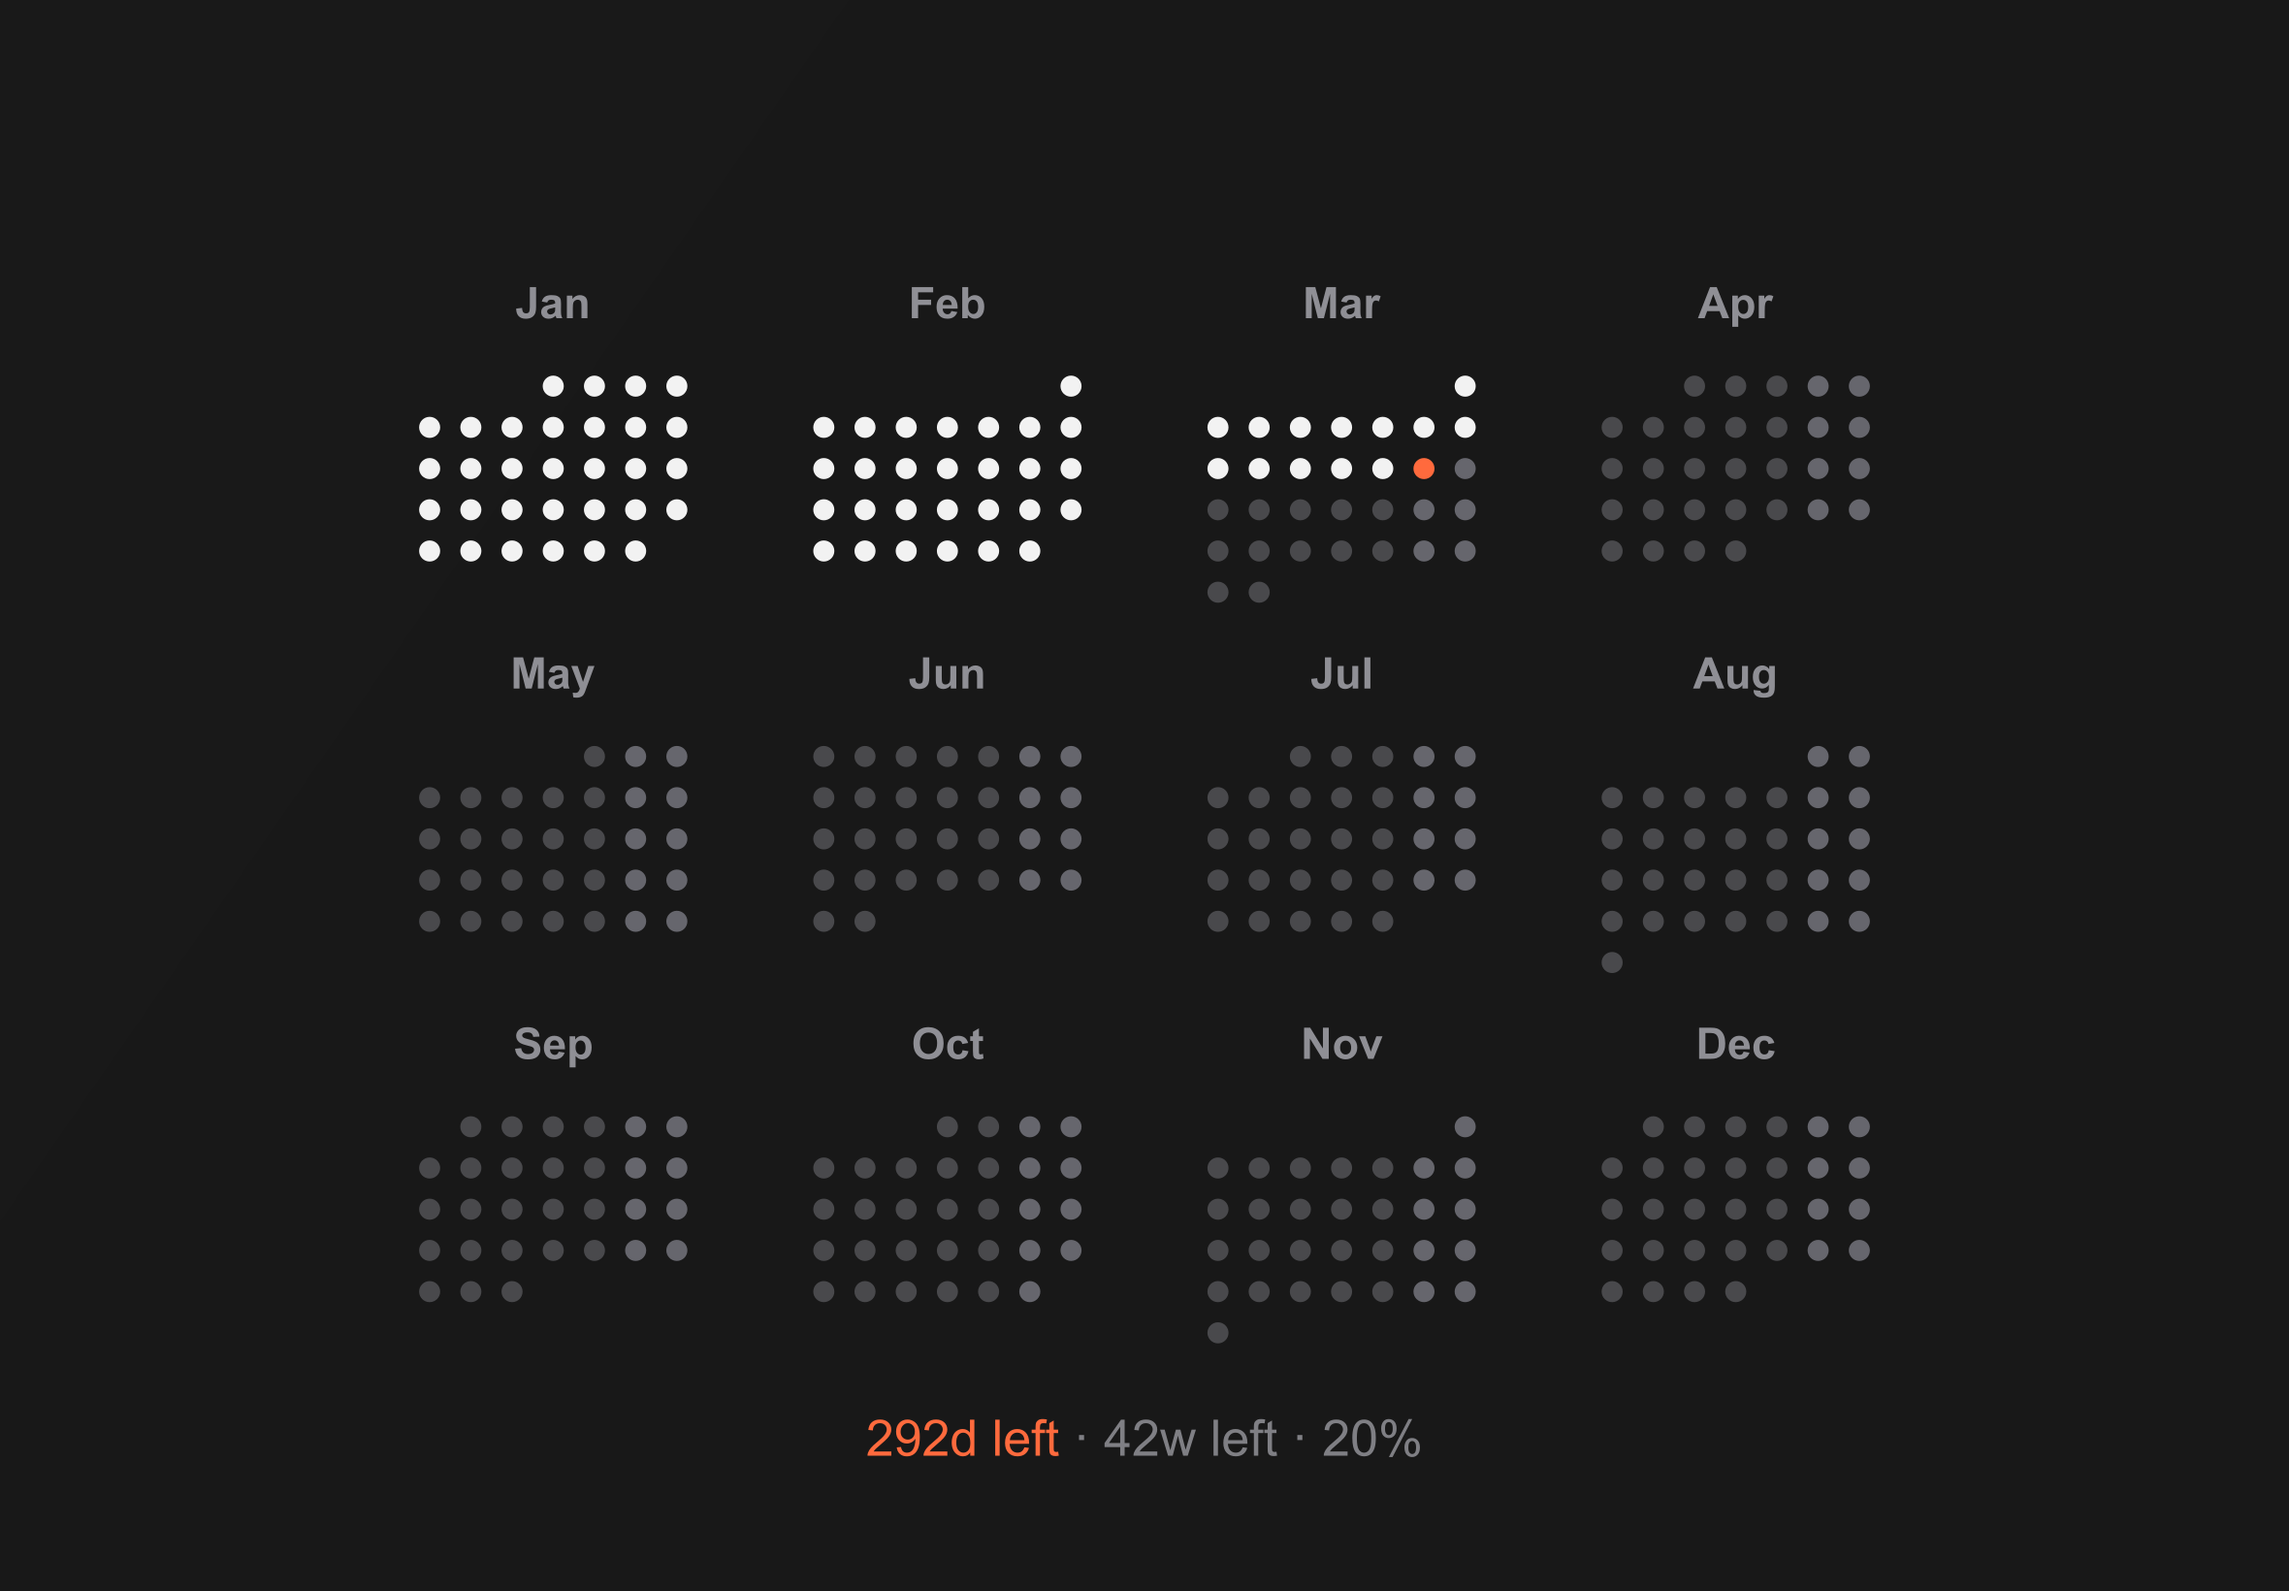
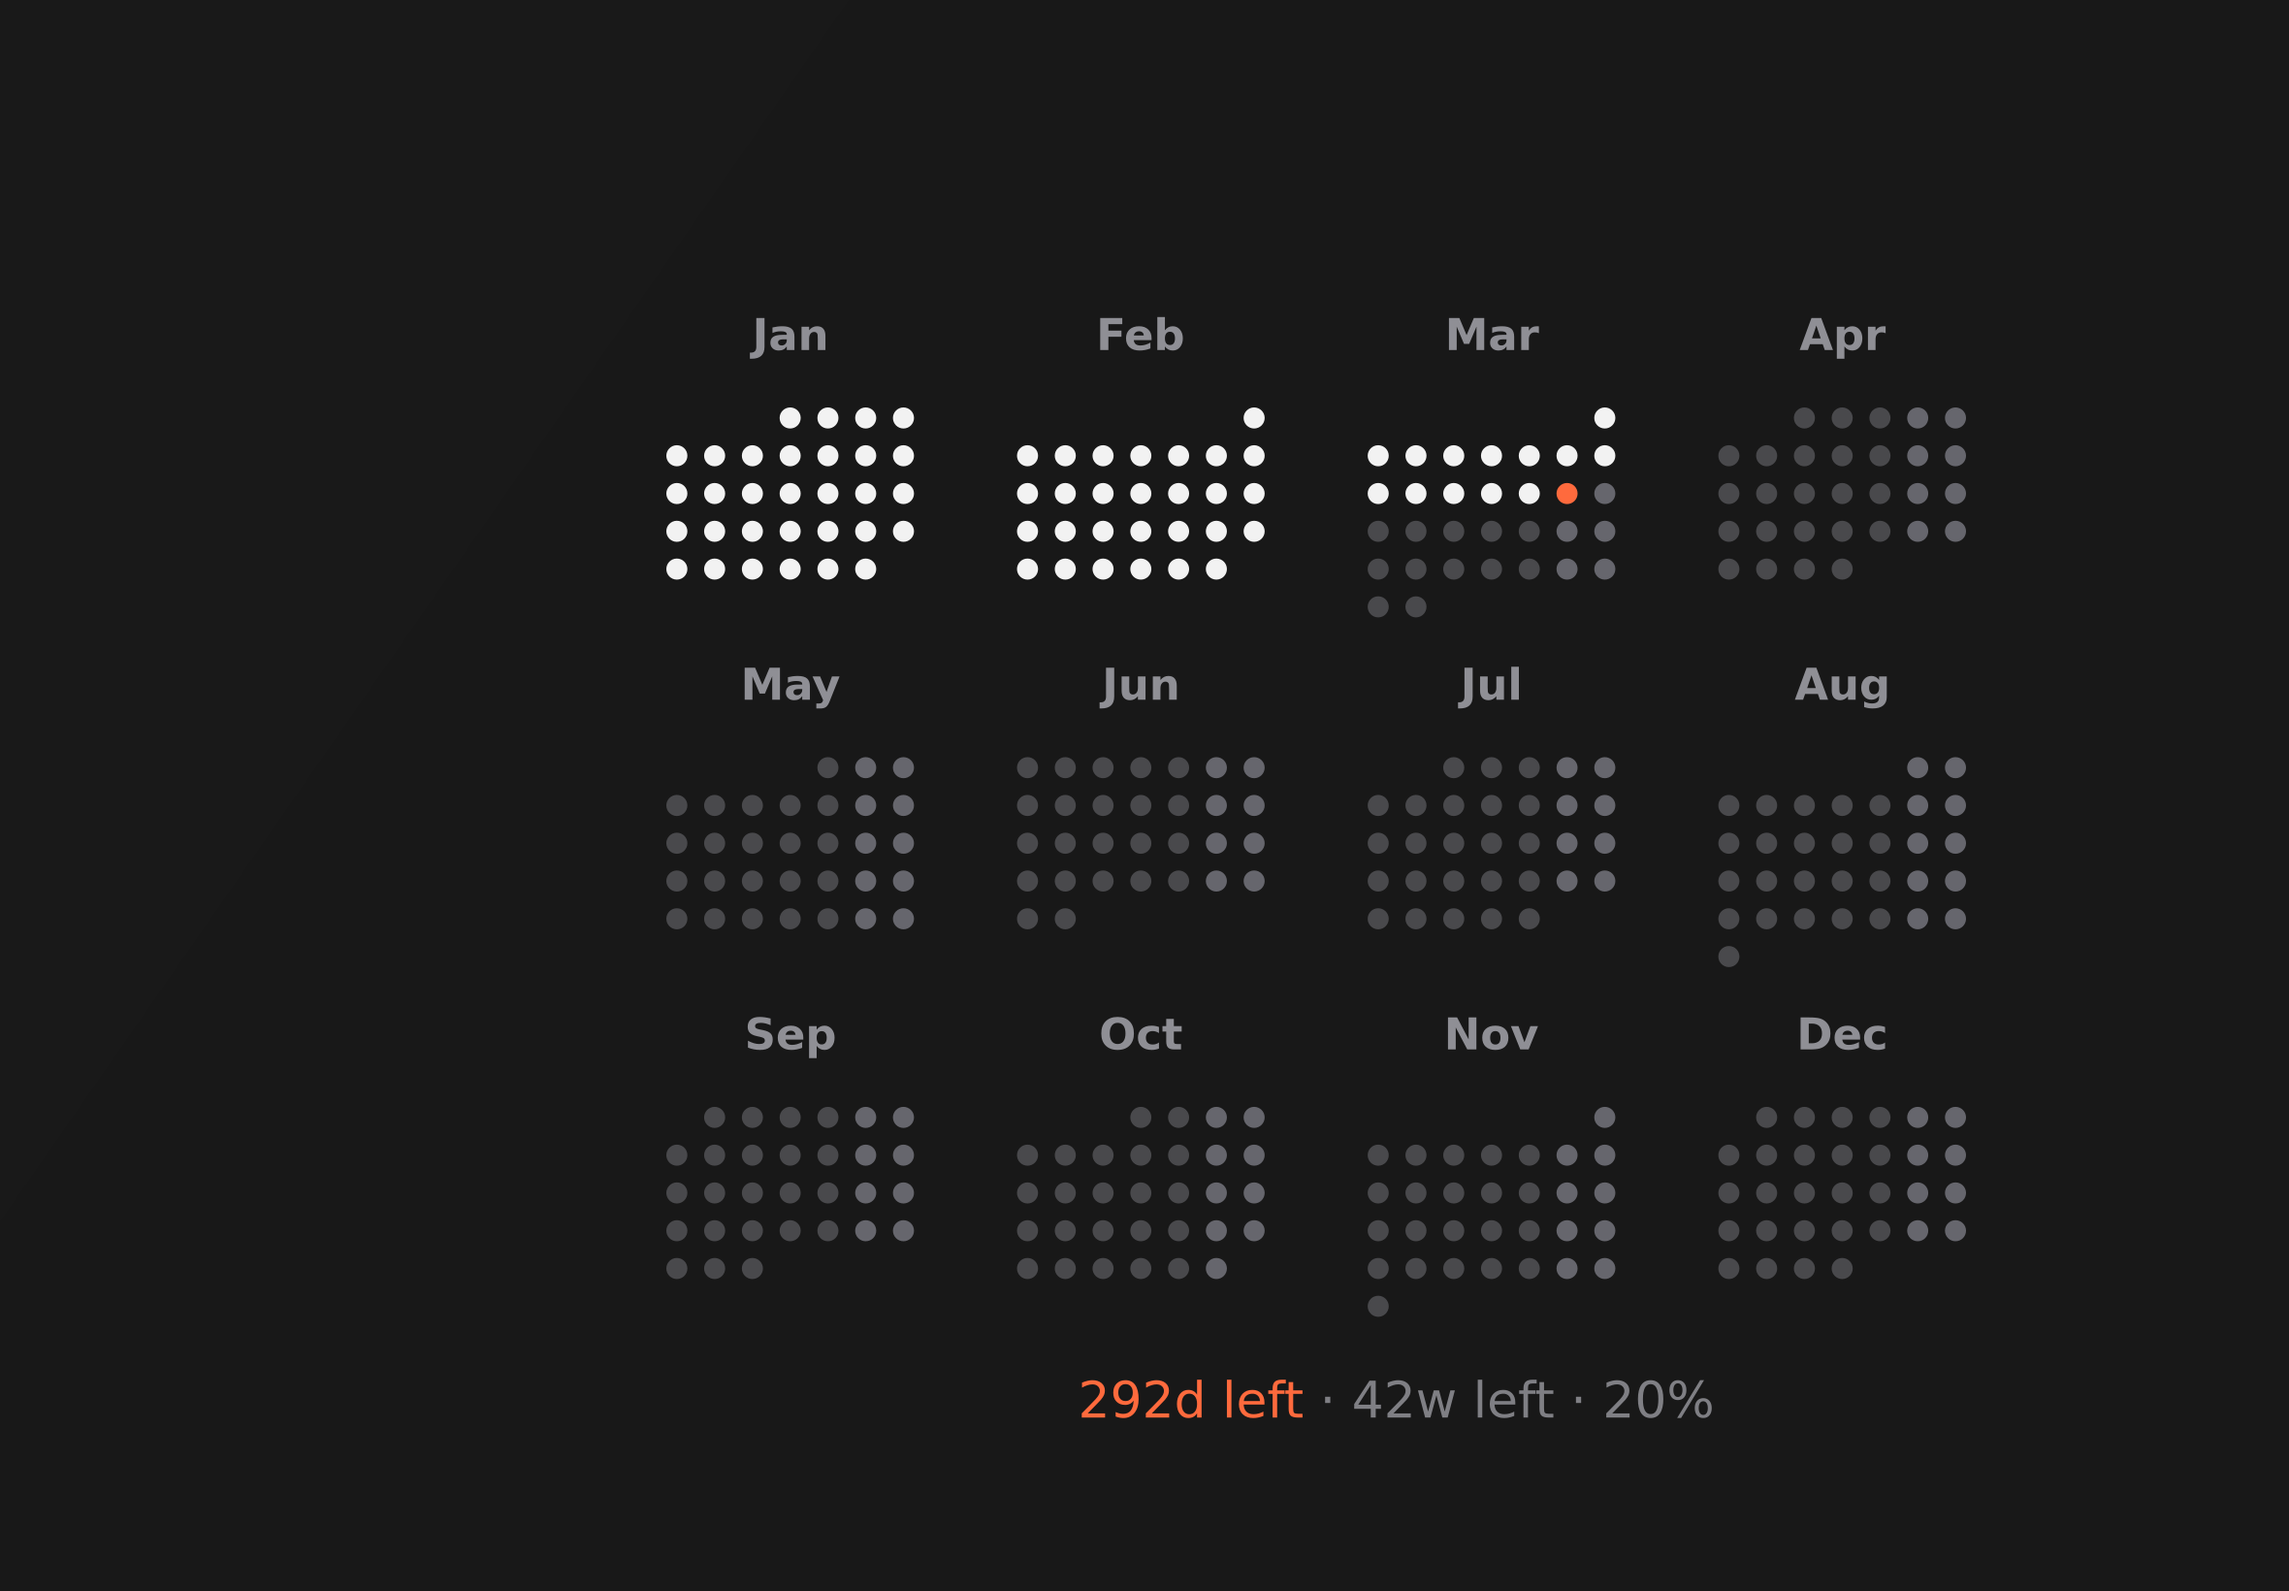
Tune iPad landscape lock screen layout

diff --git a/lib/wallpaper-renderer.js b/lib/wallpaper-renderer.js
@@ -137,7 +137,7 @@ function getDotCalendarLayout(config, dateState) {
 
   const monthBlockWidth = dotSpacing * 6 + dotRadius * 2;
   const totalCalendarWidth = cols * monthBlockWidth + (cols - 1) * monthGapX;
-  const startX = (config.width - totalCalendarWidth) / 2;
+  const startX = ((config.width - totalCalendarWidth) / 2) + (config.width * (config.grid.startXOffsetRatio ?? 0));
   const singleRowHeight = dotSpacing * 6 + monthLabelSize + monthGapY;
   let calendarBottom = topPadding;
 
@@ -201,7 +201,7 @@ function drawProgressText(ctx, config, dateState) {
   const middleWidth = ctx.measureText(middleText).width;
   const rightWidth = ctx.measureText(rightText).width;
   const totalWidth = leftWidth + separatorWidth + middleWidth + separatorWidth + rightWidth;
-  const startX = (config.width - totalWidth) / 2;
+  const startX = layout.progressStartX + ((layout.progressWidth - totalWidth) / 2);
 
   ctx.fillStyle = config.colors.stats;
   ctx.fillText(leftText, startX, textY);
@@ -243,8 +243,12 @@ function getProgressLayout(config, dateState) {
     ? config.height * config.progress.bottomInsetRatio
     : config.progress.bottomInset;
   const barHeight = config.progress.barHeight ?? 0;
-  const barWidth = config.progress.barWidthRatio ? config.width * config.progress.barWidthRatio : 0;
-  const barX = barWidth ? (config.width - barWidth) / 2 : 0;
+  const progressWidth = config.progress.availableWidthRatio
+    ? config.width * config.progress.availableWidthRatio
+    : config.width;
+  const progressStartX = ((config.width - progressWidth) / 2) + (config.width * (config.progress.startXOffsetRatio ?? 0));
+  const barWidth = config.progress.barWidthRatio ? progressWidth * config.progress.barWidthRatio : 0;
+  const barX = barWidth ? progressStartX + ((progressWidth - barWidth) / 2) : 0;
   const barY = config.height - bottomInset - barHeight;
   const textY = barHeight
     ? barY - (config.progress.textOffsetAboveBar ?? 0)
@@ -254,6 +258,8 @@ function getProgressLayout(config, dateState) {
     metrics,
     textSize,
     bottomInset,
+    progressWidth,
+    progressStartX,
     barHeight,
     barWidth,
     barX,

diff --git a/configs/ipad-landscape.js b/configs/ipad-landscape.js
@@ -12,19 +12,22 @@ module.exports = {
   highlightWeekends: true,
   gradientColors: BACKGROUND_GRADIENT,
   grid: {
-    topPaddingRatio: 0.2,
+    topPaddingRatio: 0.22,
     monthGapYRatio: 0.05,
-    monthGapXRatio: 0.055,
+    monthGapXRatio: 0.045,
+    startXOffsetRatio: 0.075,
     monthLabelSizeRatio: 0.019,
     monthLabelMinPx: 30,
     monthLabelGapRatio: 1.32,
-    dotSpacingRatio: 0.018,
+    dotSpacingRatio: 0.0165,
     dotRadiusRatio: 0.0046
   },
   progress: {
     show: true,
     textSizeRatio: 0.022,
-    bottomInsetRatio: 0.096
+    bottomInsetRatio: 0.12,
+    availableWidthRatio: 0.72,
+    startXOffsetRatio: 0.11
   },
   colors: SHARED_COLORS,
   fontFamily: FONT_FAMILY

diff --git a/tests/layout-safety.js b/tests/layout-safety.js
@@ -24,7 +24,7 @@ const cases = [
   {
     name: "ipad landscape",
     config: validateWallpaperConfig({ ...ipadLandscapeConfig, monthNames: MONTH_NAMES }),
-    minGapBetweenCalendarAndProgress: 70,
+    minGapBetweenCalendarAndProgress: 55,
     minBottomSafeArea: 130
   }
 ];

diff --git a/README.md b/README.md
@@ -11,6 +11,9 @@ A high-resolution, minimal set of dynamic calendar wallpapers for iPhone, iPad, 
 ## 🎨 Preview
 
 ![MacBook Wallpaper Preview](images/mac-wallpaper.png)
+![iPhone Wallpaper Preview](images/iphone-wallpaper.png)
+![iPad Portrait Wallpaper Preview](images/ipad-air-11-wallpaper.png)
+![iPad Landscape Wallpaper Preview](images/ipad-air-11-wallpaper-landscape.png)
 
 ---
 
@@ -47,6 +50,15 @@ npm run generate:all
 npm run verify
 ```
 
+Generate a single target when you only want one device:
+
+```bash
+npm run generate:iphone
+npm run generate:ipad
+npm run generate:ipad-landscape
+npm run generate:mac
+```
+
 ### 3. Device Matrix
 
 See [DEVICES.md](/workspaces/WallCal/DEVICES.md) for the current platform targets, resolutions, output files, and local commands.
@@ -69,6 +81,12 @@ const CONFIG = {
 Shared colors, fonts, and month labels live in `lib/wallpaper-theme.js`. Shared drawing and output logic live in `lib/wallpaper-renderer.js`.
 
 Platform generator entrypoints live under `generators/`, shared logic under `lib/`, validation and device configs under `configs/`, and local utility scripts under `scripts/` and `tests/`.
+
+Current platform configs:
+- `configs/iphone.js`
+- `configs/ipad-portrait.js`
+- `configs/ipad-landscape.js`
+- `configs/mac.js`
 
 ---
 
